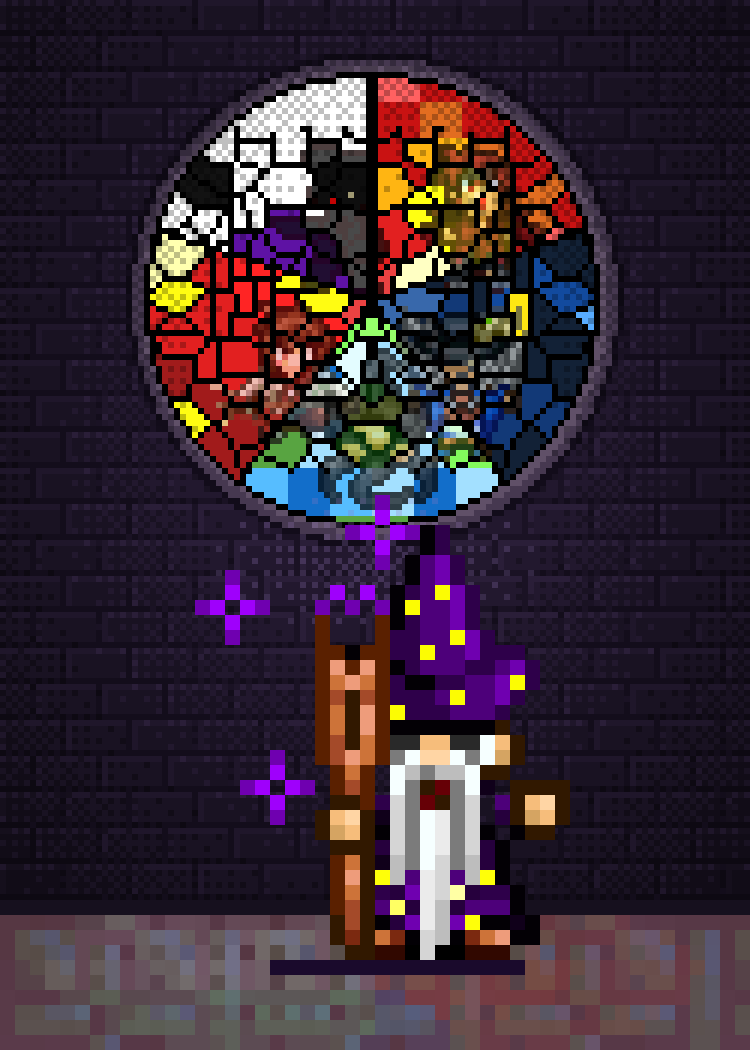
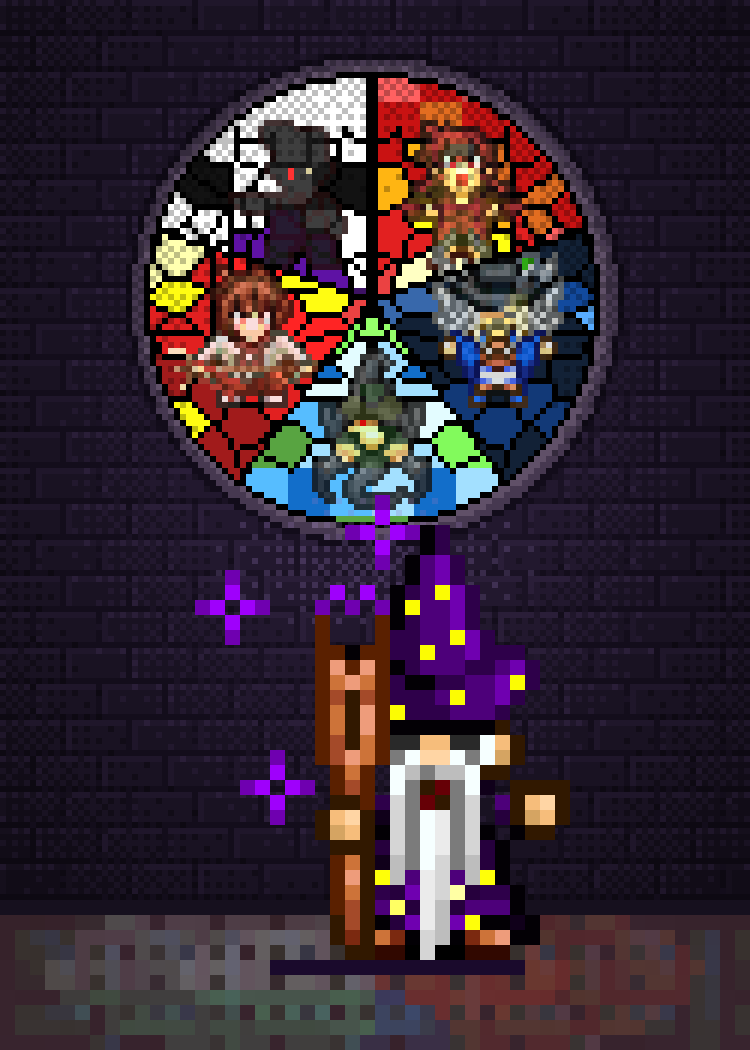
Runde 6: Überarbeitung nach Nutzer-Feedback (Zwischenstand)
Claude-Session: https://claude.ai/code/session_01TEnvTzH2xD44R6Unjv7vDo

Changed region(s): [[0.2147, 0.0914, 0.7667, 0.4876], [0.0, 0.8533, 1.0, 1.0]]

diff --git a/data/sleeve-proposals/runde6/generator/s43_wheel_of_wisdom.py b/data/sleeve-proposals/runde6/generator/s43_wheel_of_wisdom.py
@@ -13,7 +13,7 @@ Quellen (alle Motive.xcf, Szene der Karte „Archibald, the Archmage“ = Sichtb
   Ebene 441 „Archmage #3“ (farbige Glasfelder), 440 „Archmage #4“ (Bleiruten-Netz), 444 „Archmage“ (Ring),
             439 „Archmage #1“ (Ring mit fünf Speichen) – die Rosette.
   Ebene 438 „Archmage #6“ – die fünf Gestalten, die auf der Karte (vergrößert, halbtransparent) in den fünf
-            Feldern erscheinen; hier im Raster der Rosette, zu 75 % ins Glas gemischt.
+            Feldern erscheinen; hier im Raster der Rosette, zu 85 % über das Glas gemalt.
   Sichtbar #43 (Ebene 98), Ausschnitt x 240–256, y 184–200: Parkettkachel der Halle (16×16, periodisch).
 Selbst gezeichnet: Mauer der Halle, steinerne Fensterlaibung, Lichtschein, farbiger Lichtfleck am Boden,
 Hinterleuchtung der Glasfelder, Kontaktschatten.
@@ -30,11 +30,12 @@ BM = 'Motive'
 arch = sprite('o43_archibald', BM, [435, 436])                       # 25×31 inkl. Funkeln
 ros_box = (246, 106, 322, 182)
 glass = raw_cached('o43_glass', BM, 441, ros_box)                   # Farbfelder (Ausschnitte deckungsgleich)
-mesh = np.zeros_like(glass)
-for i in (439, 444, 440):                                            # Speichen, Ring, Bleiruten-Netz
+net = raw_cached('o43_mesh440', BM, 440, ros_box)                    # Bleiruten-Netz
+frame_lines = np.zeros_like(glass)
+for i in (439, 444):                                                 # Ring mit fünf Speichen, äußerer Ring
     part = raw_cached('o43_mesh%d' % i, BM, i, ros_box)
     m = part[..., 3] >= 128
-    mesh[m] = part[m]
+    frame_lines[m] = part[m]
 # Die fünf Gestalten (Ebene 438), einzeln ausgeschnitten: (Schlüssel, Box in Leinwandkoordinaten)
 FIG_BOX = {'shadow': (259, 112, 281, 138), 'red': (286, 112, 309, 138), 'girl': (247, 138, 273, 165),
            'hat': (295, 139, 320, 167), 'witch': (274, 150, 294, 181)}
@@ -70,18 +71,20 @@ GX, GY = int(RCX - gw / 2), int(RCY - gh / 2)
 lit = glass.copy()
 lit[..., :3] = np.clip(glass[..., :3].astype(float) * 1.08 + 18, 0, 255).astype(np.uint8)
 put(bg, lit, GX, GY)
-# Die fünf Gestalten in ihren Feldern (Lage wie auf der Karte), 75 % ins Glas gemischt
-FIG_POS = {'shadow': (-17, -26), 'red': (7, -26), 'girl': (-27, 0), 'hat': (4, 1), 'witch': (-9, 8)}
-for k, (dx, dy) in FIG_POS.items():
+put(bg, net, GX, GY)                         # Bleiruten-Netz unter den Bildern
+# Die fünf Gestalten mittig in ihren Feldern (Anordnung wie auf der Karte), zu 85 % über das Glas gemalt
+FIG_CEN = {'shadow': (-15, -18), 'red': (14, -18), 'girl': (-22, 6), 'hat': (20, 5), 'witch': (-1, 21)}
+for k, (dx, dy) in FIG_CEN.items():
     f = figs[k]
-    fx, fy = int(RCX + dx), int(RCY + dy)
+    fx, fy = int(round(RCX + dx - f.shape[1] / 2)), int(round(RCY + dy - f.shape[0] / 2))
     for j in range(f.shape[0]):
         for i in range(f.shape[1]):
             if f[j, i, 3]:
                 X, Y = fx + i, fy + j
-                if math.hypot(X + .5 - RCX, Y + .5 - RCY) < R - 1:
-                    bg[Y, X, :3] = (bg[Y, X, :3] * 0.25 + f[j, i, :3] * 0.75).astype(np.uint8)
-put(bg, mesh, GX, GY)                        # Bleiruten über allem
+                if math.hypot(X + .5 - RCX, Y + .5 - RCY) < R - 1.5:
+                    c = np.clip(f[j, i, :3].astype(float) * 1.15 + 14, 0, 255)
+                    bg[Y, X, :3] = (bg[Y, X, :3] * 0.15 + c * 0.85).astype(np.uint8)
+put(bg, frame_lines, GX, GY)                 # Speichen und Ring obenauf
 dark_vignette(bg, strength=0.55, r0=0.3, cx=RCX, cy=RCY + 20)
 
 # Farben der fünf Felder (für den Lichtfleck am Boden)
@@ -93,7 +96,7 @@ glow(bg, RCX, RCY + R + 6, 34, (150, 120, 190), 0.25, ry=14, steps=2)
 w5, h5 = grid(5)
 fg = rgba(w5, h5)
 FLOOR = 60                                   # Oberkante des Bodens (y 300)
-T = np.clip(tile[..., :3].astype(float) * 1.35, 0, 255).astype(np.uint8)   # Parkett, etwas aufgehellt
+T = np.clip(tile[..., :3].astype(float) * 0.85, 0, 255).astype(np.uint8)   # Parkett, im Dämmer der Halle
 for y in range(FLOOR, h5):
     for x in range(w5):
         fg[y, x, :3] = T[(y - FLOOR) % 16, (x + 5) % 16]
@@ -107,7 +110,7 @@ for y in range(FLOOR + 1, h5):
         if d < 1:
             seg = int(((math.atan2(y - FLOOR - 5, x - 25) + math.pi) / (2 * math.pi)) * 5) % 5
             col = np.array(BEAMS[seg][0], float)
-            q = 0.22 if d < 0.6 else 0.12
+            q = 0.30 if d < 0.6 else 0.16
             if BAY[y % 4, x % 4] < 0.8:
                 fg[y, x, :3] = (fg[y, x, :3] * (1 - q) + col * q).astype(np.uint8)
 ah, aw = arch.shape[:2]

diff --git a/data/sleeve-proposals/runde6/generator/s36_blackport_nightfall.py b/data/sleeve-proposals/runde6/generator/s36_blackport_nightfall.py
@@ -2,27 +2,27 @@
 """36 Blackport Nightfall – Gegner „Shadows over Blackport“, Held: Arthor, the King of Blackport.
 
 Mondnacht vor dem Torhaus der Burg Blackport. Der alte König Arthor (Base: weißer Bart, dunkler Rock) steht groß
-auf dem Pflaster vor seinem Tor; hinter ihm ragen die zwei Rundtürme und die Brüstung des Balkons (auf dem er auf
-seiner Karte sitzt) als dunkle Silhouette in den hellen Mondhimmel. Am linken Turm hängt das violette Chevron-Banner
+auf dem Pflaster vor seinem Tor; die zwei Rundtürme ragen bis zum oberen Bildrand, zwischen ihnen steht der Vollmond
+über der Brüstung des Balkons (auf dem er auf seiner Karte sitzt). Am linken Turm hängt das violette Chevron-Banner
 von Blackport, am rechten Turm – wie auf seiner Karte an der Burgmauer – das Legendary Sword of a Barbarian King,
 das Arthor zum „Inheritor of the Barbarian Sword“ (Cover-Karte) macht – senkrecht aufgestellt als Gegenstück zum
 Banner. „Shadows over Blackport“ erzählt die Mondnacht selbst: der König hält Wache vor dem schlafenden Tor.
 
-Quellen (Motive.xcf):
-  Ebene 951 „Arthor-Kopie“ – Base-Arthor (Karte „Arthor, the King of Blackport“ = Sichtbar #294, Ebene 103,
-  Lage 247,169; Oberkörper pixelgleich, auf der Karte sitzt er hinter der Balkonbrüstung). Hier die ganze stehende
-  Figur aus 951 (nur Arthor, x262–292/y183–214), keine Ascended-Version (910).
-  Ebene 103 „Sichtbar #294“ – Torhaus der Karte (Ausschnitt x222–347/y150–325): alles oberhalb der Turmkronen und
-  der Balkonbrüstung durch Himmel ersetzt; die drei Balkonfiguren (Masken 948/951/949) mit Nachbarsteinen übermalt;
+Quellen:
+  runde6/refs/arthor_full.png – Arthors vollständiger Base-Sprite (18×25, Nutzer-Referenz; Kopf/Oberkörper wie
+  Motive.xcf Ebene 951 „Arthor-Kopie“ = Karte „Arthor, the King of Blackport“, Sichtbar #294, Lage 247,169, dazu
+  die Arme). Keine Ascended-Version (910).
+Motive.xcf:
+  Ebene 103 „Sichtbar #294“ – Torhaus der Karte (Ausschnitt x222–347/y150–325): Turmschäfte mit ihrer 8-Zeilen-
+  Periode bis zum oberen Rand weitergekachelt, über Brüstung/Außenmauer Himmel; die drei Balkonfiguren (Masken 948/951/949) mit Nachbarsteinen übermalt;
   das Banner über dem Tor (x277–294/y220–237, Maske: alles Nicht-Graue) an den linken Turm versetzt.
   Ebene 911 „Legendary Sword“ – Karte „Legendary Sword of a Barbarian King“ (dort an der Burgmauer; hier um 90°
   gedreht am rechten Turm).
-Selbst gezeichnet: Himmel, Mond, Sterne, Zinnen auf den Turmkronen (Farben der Brüstungssteine), Mondlicht auf der
-Fassade, Schatten.
+Selbst gezeichnet: Himmel, Mond, Sterne, Mondlicht auf der Fassade, Schatten.
 
 Skalierung (Tiefenebenen):
-  Hintergrund (Himmel, Mond, Sterne, Torhaus, Zinnen, Banner, Schwert) – 2× (125×175)
-  Vordergrund (Arthor 14×25 → 84×150 px, Schatten)               – 6× (42×59, um 1 px versetzt)
+  Hintergrund (Himmel, Mond, Sterne, Torhaus, Banner, Schwert) – 2× (125×175)
+  Vordergrund (Arthor 18×25 → 108×150 px, Gesichtsmitte x 375/750, Schatten) – 6× (42×59, um 1 px versetzt)
 """
 import math, random
 import numpy as np

diff --git a/data/sleeve-proposals/runde6/generator/s05_field_study.py b/data/sleeve-proposals/runde6/generator/s05_field_study.py
@@ -31,7 +31,7 @@ _k40 = compose('MotiveDeepsea', [38, 40], crop=False)[205:233, 322:347]
 _kit = _k39.copy(); _kit[18:] = _k40[18:]
 kit_ = trimmed(_kit)
 trex = sprite('o05_trex', 'MotiveGrailWar', [513])            # Gigantisaur King Trex (80×59)
-grass = compose('MotiveGrailWar', [515], crop=False)[322:338, 88:104].copy()   # Graskachel (16×16)
+grass = compose('MotiveGrailWar', [515], crop=False)[340:356, 92:108].copy()   # Graskachel der Lichtung (16×16)
 
 # ---- Ebene 1: Abendhimmel, T-Rex-Silhouette, Waldrand, Wiese (2×, 125×175) ----------------------
 W2, H2 = 125, 175
@@ -73,7 +73,7 @@ for y in range(HOR + 8, H2):
         c = c * np.array([0.78, 0.64, 0.58]) * (0.55 + 0.35 * d)
         p2[y, x] = list(np.clip(c, 0, 255).astype(np.uint8)) + [255]
 # dreizehige Trittsiegel des T-Rex quer über die Wiese (Zehen zeigen zum Wald)
-MUD, MUD2 = (40, 38, 16), (26, 24, 10)
+MUD, MUD2 = (46, 40, 18), (28, 24, 10)
 def footprint(cx, cy):
     for (dx, dy) in [(0, -1), (0, -2), (0, -3), (-1, -1), (-2, -2), (1, -1), (2, -2), (-2, 1), (2, 1)]:
         p2[cy + dy, cx + dx, :3] = MUD

diff --git a/data/sleeve-proposals/runde6/notes_G.md b/data/sleeve-proposals/runde6/notes_G.md
@@ -1,5 +1,5 @@
-36 | Blackport Nightfall | Shadows over Blackport | Arthor, the King of Blackport | Mondnacht vor dem Torhaus von Blackport: der alte König (Base, weißer Bart) steht groß auf dem Pflaster vor seinem Tor, Kopf vor dem Himmel zwischen den zwei Rundtürmen, die mit Zinnen als dunkle Silhouette vor Vollmond und Sternen stehen; am linken Turm das violette Chevron-Banner von Blackport, am rechten Turm – wie auf seiner Karte an der Burgmauer – das Legendary Sword of a Barbarian King (Bezug zur Cover-Karte „Inheritor of the Barbarian Sword“); keine Monster, die Nacht selbst ist der Schatten | Himmel, Mond, Sterne, Torhaus, Zinnen, Banner, Schwert 2× (125×175); Arthor 6× (14×25 → 84×150 px) | Motive 951 „Arthor-Kopie“ (Base, Oberkörper = Sichtbar 103 Lage 247,169; hier stehend), Motive 103 (Torhaus x222–347, über Turmkronen/Brüstung durch Himmel ersetzt, Balkonfiguren 948/951/949 übermalt, Banner über dem Tor an den linken Turm versetzt), Motive 911 „Legendary Sword“ (90° gedreht); Himmel, Mond, Sterne, Zinnen, Mondlicht, Schatten selbst gezeichnet | Rahmen: ornate/gothic/amethyst/ruby
-37 | Sandtrap Oasis | Shifting Sandlands | Bakhm, the Desert Digger | Draufsicht auf die Wüste im Stil seiner Kartenwelt: Bakhm reckt sich wie auf seiner Base-Karte (mit dem Tonnenkaktus hinter dem Schädel) aus seinem Sandtrichter und lauert zum Nilufer hin, wo ahnungslos das Pure Advantage Camel trinkt; dessen frische Hufspur führt dicht am Trichter vorbei – die Wüste steckt voller Überraschungen | EIN Raster 2× (125×175): Wüste, Nil, Trichter, Bakhm (57×64 → 114×128 px), Kamel, Spur | MotiveEgypt 41+42+46 (+132) = Sichtbar #52 (0 px Abweichung), Tonnenkaktus aus 132, 234 „Hintergrund“ (Nilufer, 3 Objekte übermalt), 67+65 (Kamel der Cover-Karte); Hufspur, Schatten, Trinkkreise selbst gezeichnet | Rahmen: stone/stone/amber/jade
-38 | New Flock | Slimy Infestation | Stellan, the Calm Cat | Stellan steht wie auf seiner Base-Karte mit ausgebreiteten Armen und geschlossenen Augen an der Goldkette des roten Teppichs in seinem Katzentempel (Ziegelmauer mit Buntglasfenstern, Pflaster); wo ihn auf der Karte seine Katzen umringen, sitzt jetzt die neue Herde des Decks paarweise gespiegelt im Bogen hinter ihm (Splashy/Shadowy, Sparky/Shiny, Fiery/Icy), Cloudy Slime flattert darüber | Tempel, Teppich, sieben Schleime + Schatten 2× (125×175); Stellan 5× (18×25 → 90×125 px) | MotiveGrailWar 428 „Stellan“ (nur Mittelfigur, Base-Karte = Sichtbar 426 Lage 209,138; nicht 427 Oster-Variante), Szene 426 als Texturquelle (Ziegel, Fenster, Pflaster, Teppich, Kette); Motive 466/469/532/447/451+452/535/459 (Schleime); Wandsockel, Fensterschein, Schatten, Abdunklung selbst gezeichnet | Rahmen: arch/silver/ruby/amethyst
-39 | Black Ice Hall | Slip 'n Slide | Hel, the Bound Specter | Der Kerzensaal aus Hels Karte, der Boden zu schwarzem Spiegeleis gefroren (wenige schwache Glanzstreifen, Kerzenlicht spiegelt sich); Hel schwebt mit ihrem gebundenen Artefakt zwischen den Leuchtern, ein kräftiger fahler Geisterschein hinter ihr stellt die dunkle Gestalt frei, darunter ihr dunkelroter Schatten und ihr blasses Spiegelbild; hinter ihr schlittern Slippery Pengu (bäuchlings) und Slippery Polar (auf Rollen) auf einer gemeinsamen Bodenlinie mit Schatten, Rutschspur und Spiegelung aufeinander zu | Saal, Leuchter, Eis, Spiegelungen, Schein, Pengu, Polar, Schatten 2× (125×175); Hel + Spiegelbild 5× (16×27 → 80×135 px) | MotiveArcanum 32+31 (Base-Hel, Sichtbar 28 Lage 599,150; Ketten 30 nicht auf der Karte → weggelassen), 154 „GEHEIMRAUM“ (Saal, Thron/Tisch übermalt); Motive 804 „Pengu“ (gespiegelt), 785 „Polar“; Eis, Spiegelungen, Schein, Schatten, Rutschspuren, Transparenz selbst gezeichnet | Rahmen: icicle/ice/emerald/sapphire
+36 | Blackport Nightfall | Shadows over Blackport | Arthor, the King of Blackport | Mondnacht vor dem Torhaus von Blackport: der alte König (Base, vollständiger Sprite mit Armen) steht groß auf dem Pflaster vor seinem Tor, Gesicht mittig; die zwei Rundtürme ragen bis zum oberen Rand, zwischen ihnen steht der Vollmond über der Balkonbrüstung; am linken Turm das violette Chevron-Banner, am rechten das Legendary Sword of a Barbarian King (Bezug zur Cover-Karte „Inheritor of the Barbarian Sword“) | Himmel, Mond, Sterne, Torhaus, Banner, Schwert 2× (125×175); Arthor 6× (18×25 → 108×150 px) | refs/arthor_full.png (Nutzer-Referenz, = Motive 951 + Arme), Motive 103 (Torhaus, Turmschäfte nach oben gekachelt, Balkonfiguren 948/951/949 übermalt, Banner versetzt), Motive 911 „Legendary Sword“ (90° gedreht); Himmel, Mond, Sterne, Mondlicht, Schatten selbst gezeichnet | Rahmen: ornate/gothic/amethyst/ruby
+37 | Sandtrap Oasis | Shifting Sandlands | Bakhm, the Desert Digger | Draufsicht auf die Wüste im Stil seiner Kartenwelt: Bakhm reckt sich groß wie auf seiner Base-Karte (mit dem Tonnenkaktus hinter dem Schädel) aus seinem großen Sandtrichter direkt am Nilufer; unten links trinkt ahnungslos das Pure Advantage Camel, dessen frische Hufspur am Trichter vorbeiführt – die Wüste steckt voller Überraschungen | EIN Raster 3× (84×117): Wüste, Nil, Trichter, Bakhm (57×64 → 171×192 px), Kamel, Spur | MotiveEgypt 41+42+46 (+132) = Sichtbar #52 (0 px Abweichung), Tonnenkaktus aus 132, 234 „Hintergrund“ (Nilufer x334–418/y306–423, überdeckte Objekte übermalt), 67+65 (Kamel der Cover-Karte); Hufspur, Schatten, Trinkkreise selbst gezeichnet | Rahmen: stone/stone/amber/jade
+38 | New Flock | Slimy Infestation | Stellan, the Calm Cat | Stellan steht wie auf seiner Base-Karte mit ausgebreiteten Armen und geschlossenen Augen an der Goldkette des roten Teppichs in seinem Tempel; über ihm leuchtet ein großes Rundbogen-Buntglasfenster, eine Lichtbahn fällt herab, heilige Funkelsterne schweben um ihn; wo ihn auf der Karte seine Katzen umringen, sitzt jetzt die neue Herde des Decks paarweise gespiegelt im Bogen hinter ihm (Splashy/Shadowy, Sparky/Shiny, Fiery/Icy), Cloudy Slime flattert im Scheitel | Tempel, Fenster, Licht, sieben Schleime 2× (125×175); Stellan + Funkelsterne 5× (18×25 → 90×125 px) | MotiveGrailWar 428 „Stellan“ (nur Mittelfigur, Base-Karte = Sichtbar 426 Lage 209,138), Szene 426 als Texturquelle (Ziegel, Pflaster, Teppich, Kette); MotiveHawaii 250 (Kirchenfenster, oberer Teil, Wand per Farbmaske entfernt), 204 (Funkelsterne); Motive 466/469/532/447/451+452/535/459 (Schleime); Wandsockel, Fensterbank, Fensterschein, Lichtbahn, Schatten selbst gezeichnet | Rahmen: arch/silver/ruby/amethyst
+39 | Black Ice Hall | Slip 'n Slide | Hel, the Bound Specter | Der Kerzensaal aus Hels Karte, der Boden zu schwarzem Spiegeleis gefroren (wenige schwache Glanzstreifen, Kerzenlicht spiegelt sich); Hel schwebt mit ihrem gebundenen Artefakt zwischen den Leuchtern, ein kräftiger fahler Geisterschein hinter ihr stellt die dunkle Gestalt frei, darunter ihr dunkelroter Schatten und ihr blasses Spiegelbild; hinter ihr schlittern Slippery Pengu (bäuchlings) und Slippery Polar (auf Rollen) auf einer gemeinsamen Bodenlinie aufeinander zu – Kontaktschatten direkt unter Bauch bzw. Rädern, Rutschspur, Spiegelung im Eis | Saal, Leuchter, Eis, Spiegelungen, Schein, Pengu, Polar, Schatten 2× (125×175); Hel + Spiegelbild 5× (16×27 → 80×135 px) | MotiveArcanum 32+31 (Base-Hel, Sichtbar 28 Lage 599,150; Ketten 30 nicht auf der Karte → weggelassen), 154 „GEHEIMRAUM“ (Saal, Thron/Tisch übermalt); Motive 804 „Pengu“ (gespiegelt), 785 „Polar“; Eis, Spiegelungen, Schein, Schatten, Rutschspuren, Transparenz selbst gezeichnet | Rahmen: icicle/ice/emerald/sapphire
 40 | Smog Drill | Spell Industrialization | Victorica, the Eternal Empress | Abenddämmerung über der verschmutzten Themse: Victorica (Base, glühende Augen, Thron-Armlehnen) thront auf der violetten Plattform ihres Mana-Mining-Bohrers, der sich schäumend in den Fluss frisst und einen Ölfilm hinterlässt; hinten links ragt Big Gwen (Uhrturm ihrer Heldenkarte) in den Smog, rechts spucken zwei goldene Pollution Spewer graue Fahnen vor die fahle Sonne, Smogbänder (Pollution Tokens) über dem Himmel | Himmel, Smog, Sonne, Big Gwen, Ufer, Bäume, Spewer, Rauch 1× (250×350); Fluss 2× (125×175); Victorica (22×35 → 88×140 px), Plattform, Bohrer, Schlamm, Gischt, Ölfilm 4× (63×88) | MotiveBritain 260 „Victorica“ + 247 (Augenschein; nicht 259 Skin, nicht 97 Mana-Mining-Variante), 95+96 (Plattform, Bohrer, Schlamm der Karte „Mana Mining“), 270 (Big Gwen), 221 (Pollution Spewer), 231 (Wasserkachel, Baum); Himmel, Smog, Rauch, Ufermauer, Spiegelungen, Gischt, Ölfilm selbst gezeichnet | Rahmen: industrial/brass/amethyst/topaz

diff --git a/data/sleeve-proposals/runde6/concepts.md b/data/sleeve-proposals/runde6/concepts.md
@@ -39,7 +39,7 @@
 40 | Smog Drill | Victorica (Base, glühende Augen, Thron-Armlehnen) thront auf der violetten Plattform ihres Mana-Mining-Bohrers, der sich schäumend in die Themse bohrt; dahinter Big Gwen und das Parlament im Abendsmog, am Ufer spucken goldene Pollution Spewer graue Schwaden
 13 | Phoenix Call | Action, asymmetrisch: Mini (Base, graue Flügel) schwebt groß als Kommandantin am blauen Moe-Himmel; hinter ihr stürzt auf ihr Kommando die Cute Phoenix als senkrechte Feuersäule (Coverkarte) auf den Säulenplatz der Relic-Insel, eine Flügel-Bunny und eine Cute Cat fliegen zum Ziel – Beschwörungsangriff statt Herz/Katzen-Eskorte (≠ Kitten Escort)
 14 | Moonlit Waltz | Spiegelung im Wasser: Beato (Base, orange Schmetterlingsflügel, Zwinkern) tanzt nachts über dem stillen Teich ihres Mondgartens, umkreist vom Ring ihrer türkisen Schmetterlinge; unter ihr spiegelt sich alles im Wasser, am Ufer Blumenbeete und Steinplatten, oben ein großer Moonlight Butterfly vor dem Mond
-15 | Red Tide | Froschperspektive vom Meeresgrund: Siphem (Base, rote Randlicht-Kontur) schwebt mit ausgebreiteten Flügeln im roten Licht, das von oben durchs Wasser fällt; unten zwischen roten Totkorallen seine Tiefsee-Armee (Witch, Pirate, Mummy, Monstrosity, Primordium) im Dunkel, aus ihnen steigen rote Deepsea-Counter-Blasen zu ihm auf (Leadership/Decay) – kein Schloss, kein Cthulhu
-16 | Rift Over Earth | Kosmische Achse: Argos’ rote Schlitzpupille groß und mittig über der unten ins Bild ragenden Erde, ein roter Blickkegel fällt auf den Planeten; nur ein Life-Searcher (Suchstrahl) und ein Analyzer-Schiff ziehen vom Riss zur Erde – kein reines Riesenauge
+15 | Red Tide | Siphem (Base) steht auf dem Meeresgrund, hinter ihm groß der rote Tiefseemond mit dem Dark Deepsea God als schwarzer Silhouette, zwei Deepsea Monstrosities rahmen – kein Schloss, kein farbiger Cthulhu
+16 | Rift Over Earth | Argos (Auge mit schwarzer Pupille vor schwarzem Schattenkörper) groß oben mittig, darunter der Erdwürfel im roten Blickkegel; Life-Searcher tasten ihn mit Strahlen ab, Analyzer und Gatherer ziehen heran
 17 | Glade of the Vanguard | Draufsicht auf eine Waldlichtung (RPG-Blick wie Mayas Karte): Maya (Base, weiße Flügel) schwebt in ihrem Rankenkranz über der Lichtung, ringsum am Waldrand zwischen Baumkronen ihre Elven Vanguard (Leader mit zwei Archern, Druid, Forager, Rider) – grüne Heilfunken steigen zu den Elfen (+HP)
-18 | Sticky Fingers | Nachtszene/Erzählung: vor dem nächtlichen Rathaus steht das Giebelfenster offen und leuchtet; zwei Sparkfly-Arbeiterinnen schleppen die funkelnde Schatztruhe heraus, die gekrönte Sparkfly Queen (Cover, Hive’s Crown) wacht, vorn streckt Lilly (Base) frech die Zunge heraus – die Sparkflies sind ihre Komplizen (keine Wabe, keine Taverne)
+18 | Sticky Fingers | nachts vor dem Rathaus: Sparkfly Worker und Attendant schleppen Schatztruhe und Goldsäcke aus dem leuchtenden Giebelfenster, vorn streckt Lilly (Base) frech die Zunge heraus – ohne Königin, ohne Wabe/Taverne
